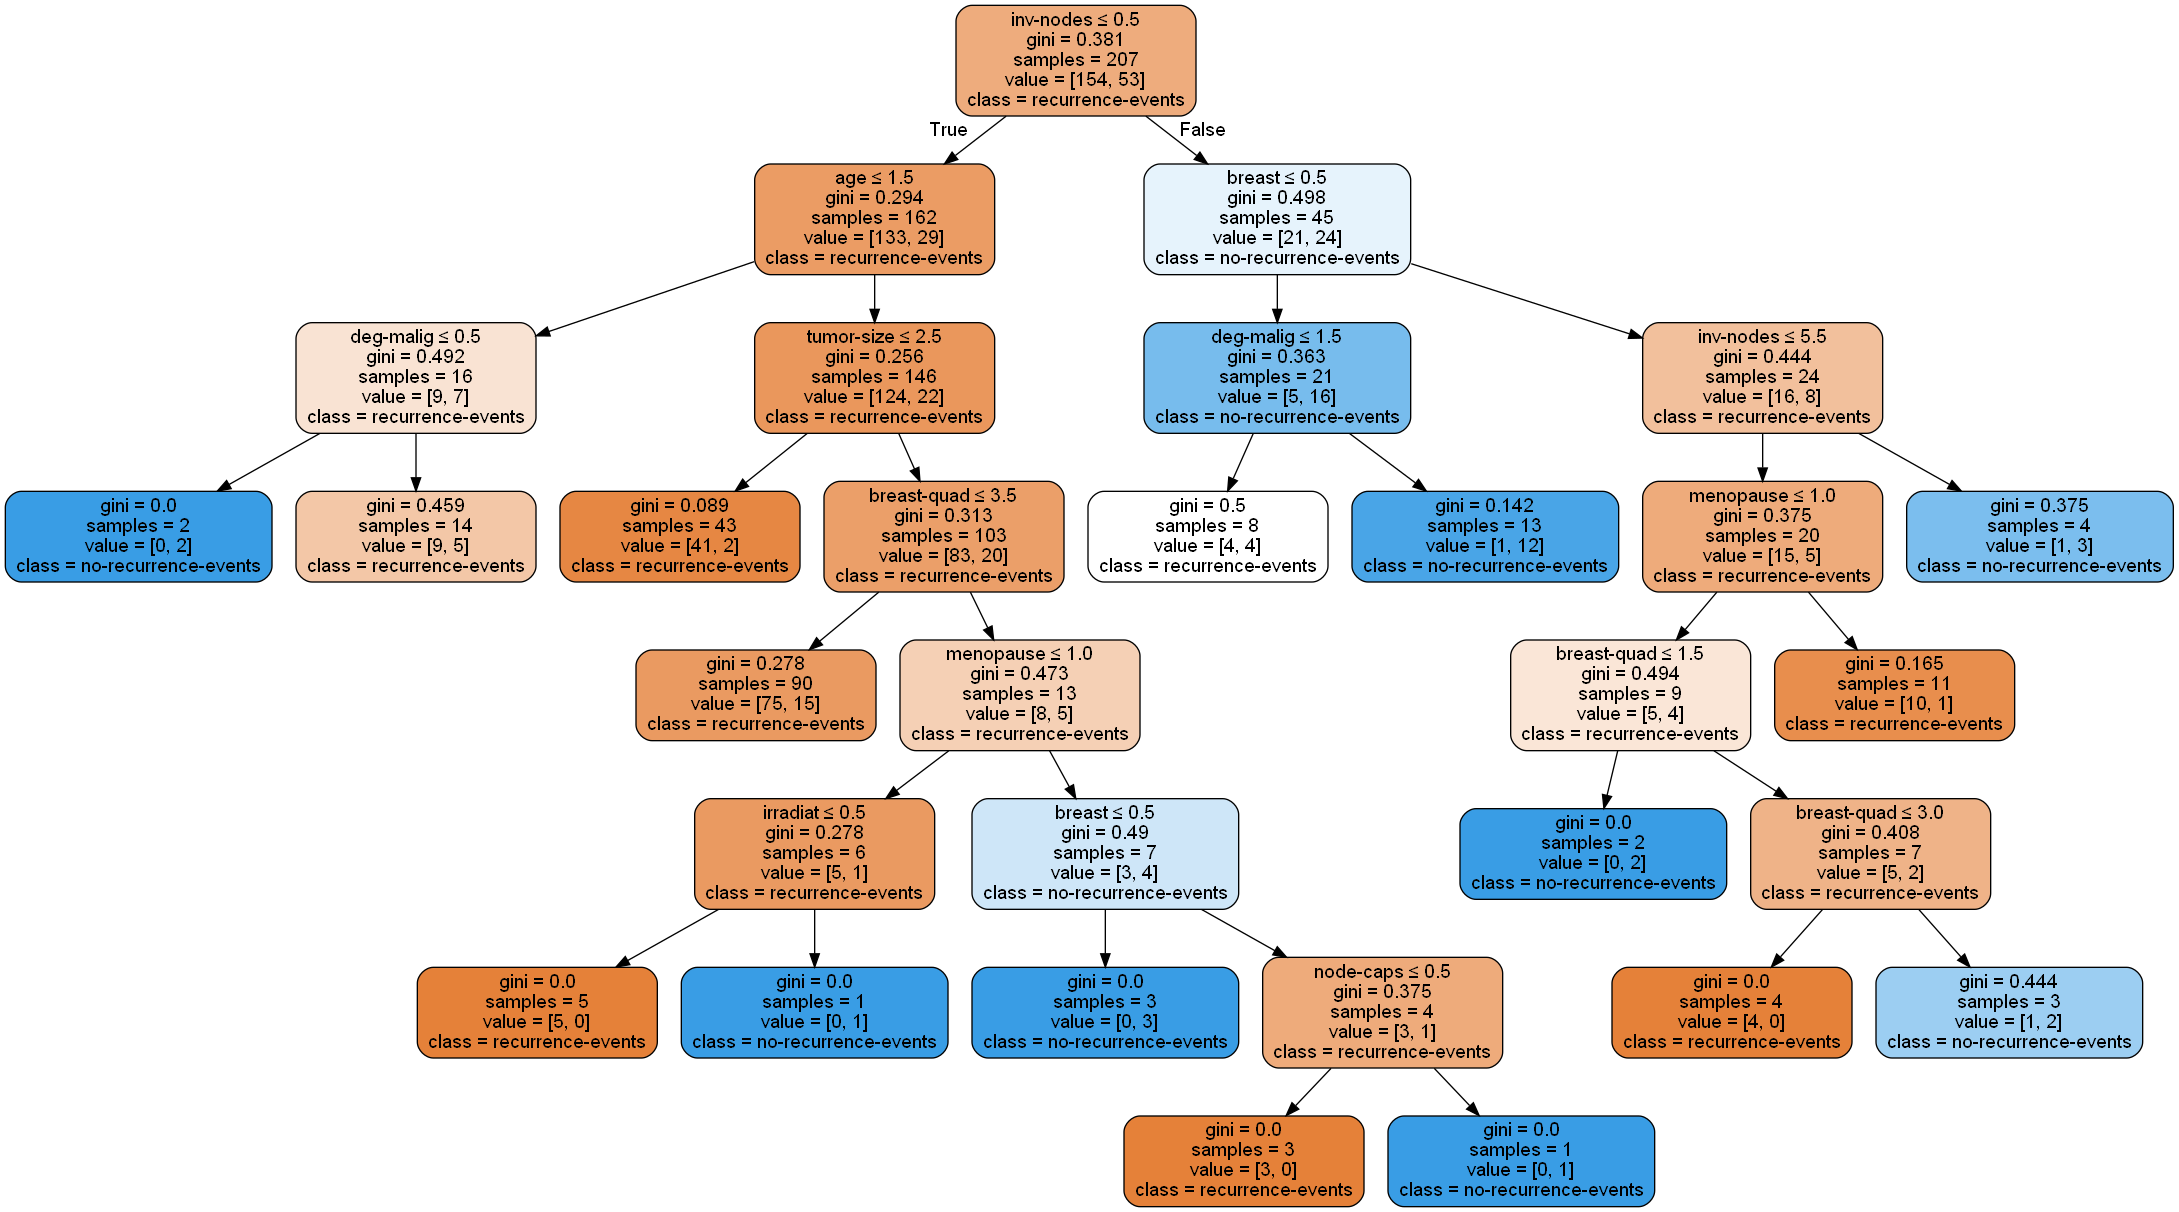
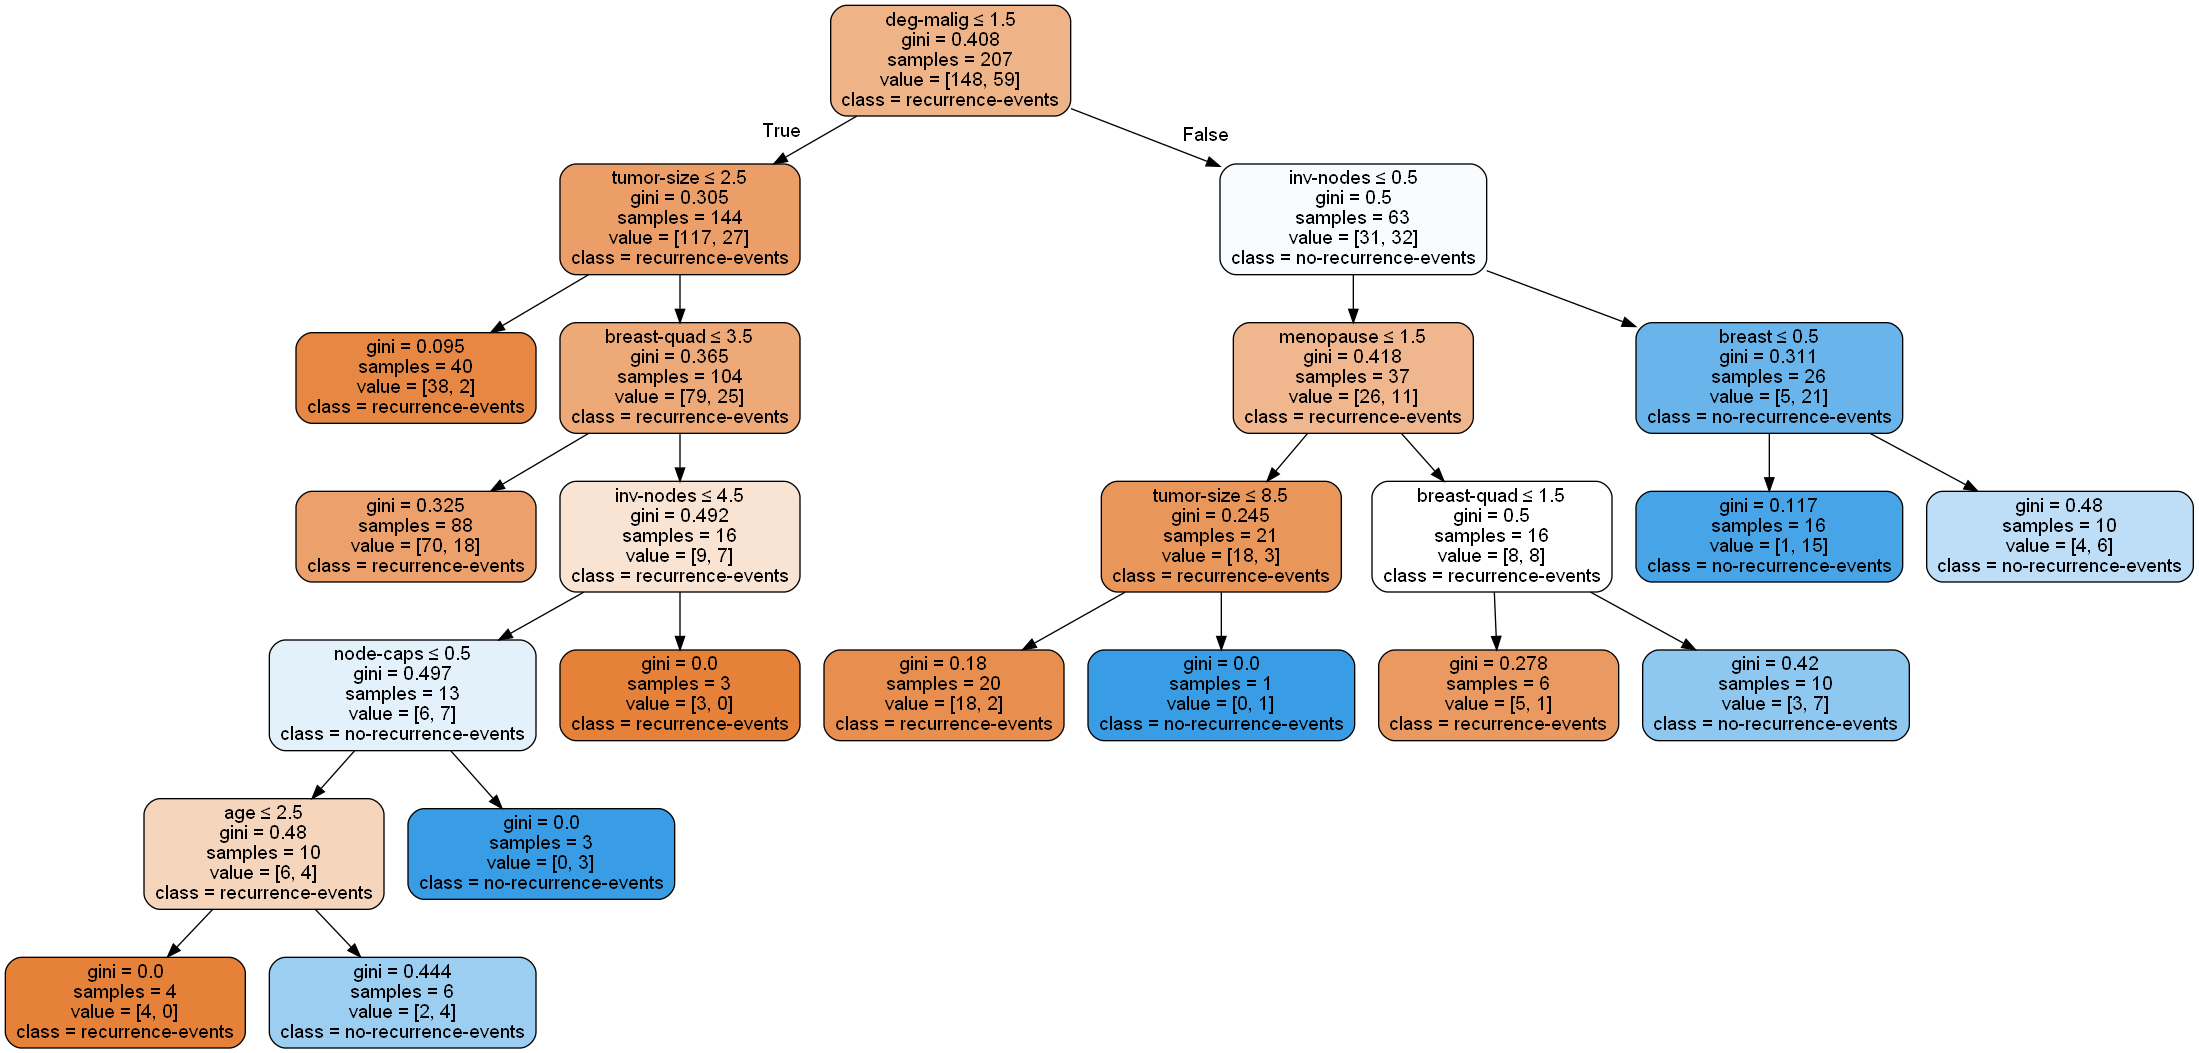
ROC curve

diff --git a/main.py b/main.py
@@ -9,7 +9,7 @@ from sklearn.model_selection import train_test_split  # Naive bayes
 from sklearn import preprocessing  # Naive bayes & C4.5 decision tree
 from sklearn.naive_bayes import GaussianNB  # Naive bayes
 from sklearn.tree import DecisionTreeClassifier, export_graphviz #C4.5 decision tree
-from sklearn.metrics import confusion_matrix #C4.5 decision tree
+from sklearn.metrics import confusion_matrix, roc_curve, roc_auc_score #C4.5 decision tree
 
 import matplotlib.pyplot as plt #Plotting tool
 import numpy as np  #General tool
@@ -18,7 +18,7 @@ from six import StringIO #Used for image creation
 import pydotplus #Used for image creation
 from IPython.display import Image #Used for image creation
 
-RANDOM_STATE = 40 #Sets seed for splitting the data
+RANDOM_STATE = 43 #Sets seed for splitting the data
 TEST_SIZE = 0.25 #Sets size for test set of total data set
 CCP_ALPHA = 0.0065 #Sets cost complexity for decision tree classifier
 
@@ -100,6 +100,12 @@ def sklearn_naive_bayes(df):
     accuracy = str(((cm[0][0] + cm[1][1]) / sum(map(sum, cm)))*100)[:4]
     print('NB Accuracy: ' + accuracy + "% \n")
 
+    #Create ROC-curve
+    y_score = model.predict_proba(x_test)[:,1]
+    false_positive_rate, true_positive_rate, threshold = roc_curve(y_test, y_score)
+    print('roc_auc_score for Naive Bayes:', roc_auc_score(y_test, y_score))
+    plot_roc_curve(false_positive_rate, true_positive_rate, 'Receiver Operating Characteristic - Naive Bayes')
+
 #Run sklearn CART tree decision algorithm on dataframe
 def sklearn_cart_tree_decision(df):
 
@@ -138,7 +144,14 @@ def sklearn_cart_tree_decision(df):
     accuracy = str(((cm[0][0] + cm[1][1]) / sum(map(sum, cm)))*100)[:4]
     print('C4.5 Accuracy: ' + accuracy + "% \n")
 
+    #Create tree image
     create_decision_tree_image(classifier, feature_names, class_names)
+
+    #Create ROC-curve
+    Y_score = classifier.predict_proba(X_test)[:,1]
+    false_positive_rate, true_positive_rate, threshold = roc_curve(Y_test, Y_score)
+    print('roc_auc_score for Decision Tree:', roc_auc_score(Y_test, Y_score))
+    plot_roc_curve(false_positive_rate, true_positive_rate, 'Receiver Operating Characteristic - Decision Tree')
 
 #Create image of decision tree
 def create_decision_tree_image(decision_tree, feature_names, class_names):
@@ -157,6 +170,16 @@ def create_decision_tree_image(decision_tree, feature_names, class_names):
     graph.write_png("big_tree.png")
     Image(graph.create_png())
 
+#Creats and prints a roc curve
+def plot_roc_curve(false_positive_rate, true_positive_rate, title):
+    plt.subplots(1, figsize=(10,10))
+    plt.title(title)
+    plt.plot(false_positive_rate, true_positive_rate)
+    plt.plot([0, 1], ls="--")
+    plt.plot([0, 0], [1, 0] , c=".7"), plt.plot([1, 1] , c=".7") #Straight line
+    plt.ylabel('True Positive Rate')
+    plt.xlabel('False Positive Rate')
+    plt.show()
 
 # Initialize console and table object for pretty printing
 console = Console()
@@ -164,7 +187,7 @@ console = Console()
 with console.status("[bold green]Processing data...") as status:
     df = arff_to_dataframe("breast-cancer.arff")
     #print_table(df)
-    #sklearn_naive_bayes(copy.deepcopy(df))
+    sklearn_naive_bayes(copy.deepcopy(df))
     sklearn_cart_tree_decision(copy.deepcopy(df))
     print('Test size: ' + str(TEST_SIZE * 100) + '%')
     print('Random state: ' + str(RANDOM_STATE))
